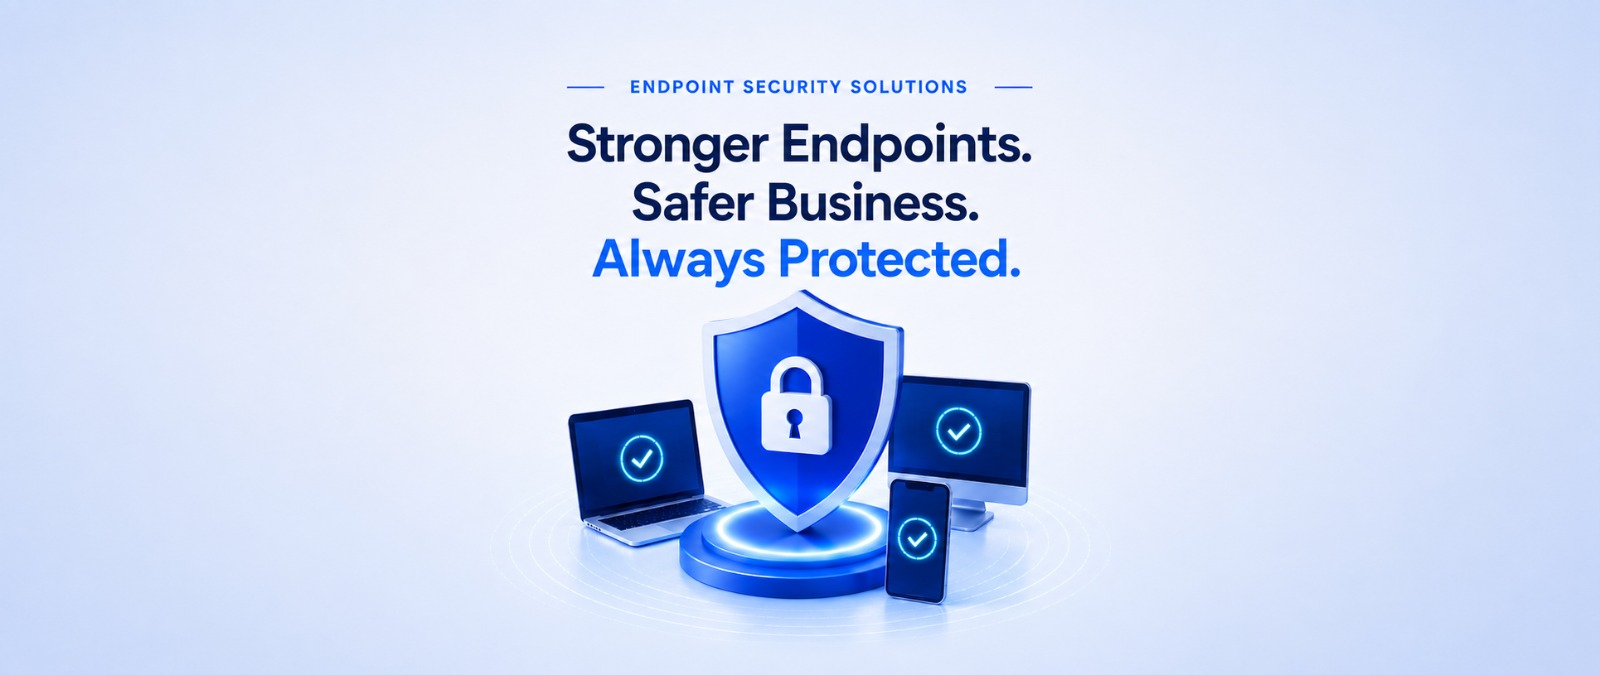
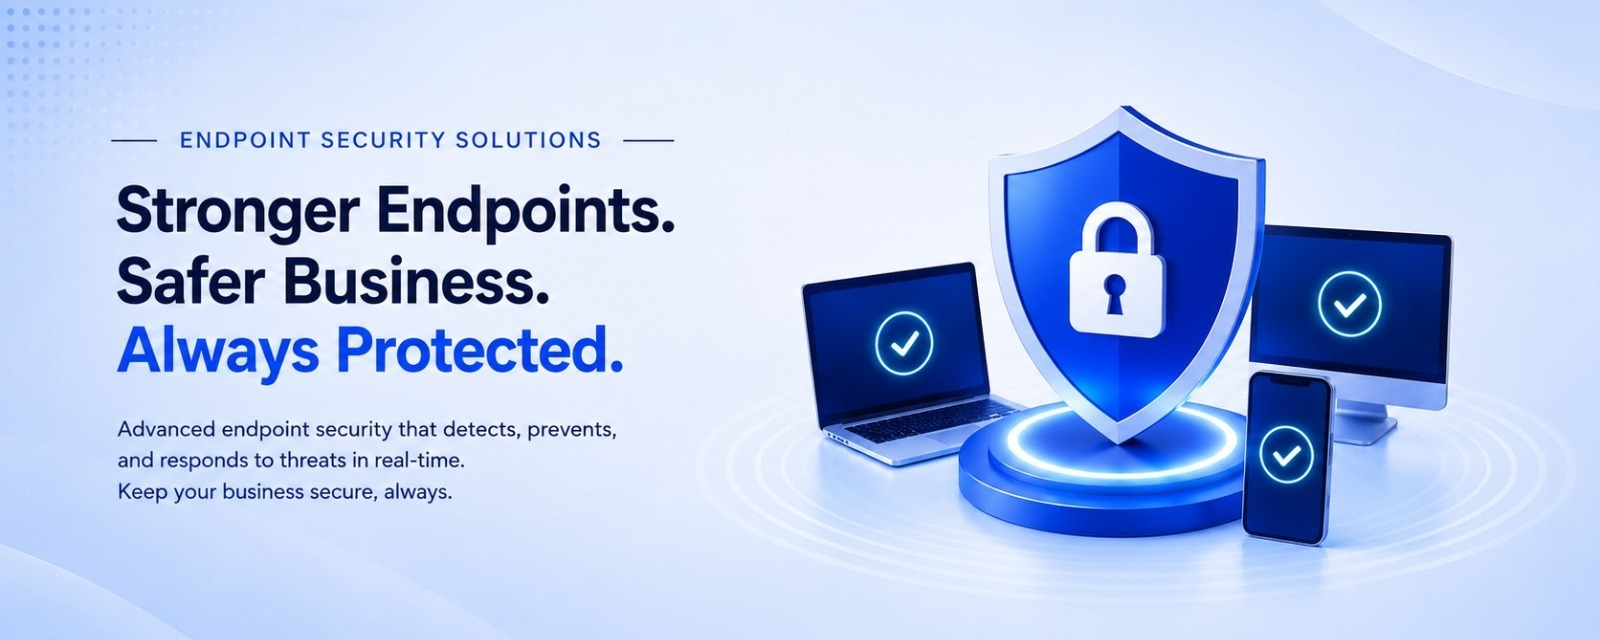
fix: images, layout, and styling

diff --git a/src/components/layout/Footer.jsx b/src/components/layout/Footer.jsx
@@ -13,15 +13,14 @@ export default function Footer() {
   return (
     <footer className="bg-[#380a08] text-white pt-20 pb-10">
       <div className="max-w-[1440px] mx-auto px-4 sm:px-6 lg:px-12">
-        <div className="flex flex-col lg:flex-row gap-12 lg:gap-16 mb-16 items-start">
+        <div className="grid grid-cols-1 md:grid-cols-2 lg:grid-cols-3 gap-8 mb-12">
           {/* Column 1: Google Map */}
-          <div className="w-full lg:w-[350px] flex flex-col">
-            <h4 className="font-bold text-lg mb-6">Our Location</h4>
-            <div className="w-full lg:w-[320px] rounded-xl border border-gray-300 h-[220px]">
+          <div className="flex flex-col">
+            <h4 className="font-bold text-lg mb-4">Our Location</h4>
+            <div className="w-full rounded-xl border border-gray-300 overflow-hidden h-[220px] md:h-[260px]">
               <iframe
                 src="https://www.google.com/maps/embed?pb=!1m18!1m12!1m3!1d3502.1304655175595!2d77.3762794742933!3d28.62585168438619!2m3!1f0!2f0!3f0!3m2!1i1024!2i768!4f13.1!3m3!1m2!1s0x390cefe52eb05379%3A0x8e9c143bfb81a1a9!2sCopious%20Infotech!5e0!3m2!1sen!2sin!4v1780427978835!5m2!1sen!2sin"
-                width="100%"
-                height="100%"
+                className="w-full h-full"
                 allowFullScreen=""
                 loading="lazy"
                 referrerPolicy="no-referrer-when-downgrade"
@@ -30,110 +29,66 @@ export default function Footer() {
             </div>
           </div>
 
-          {/* Column 2: Logo & Info */}
-          <div className="w-full lg:w-[380px] flex flex-col items-start">
-            {/* Logo */}
-            <div className="bg-white p-2 rounded mb-6 inline-flex">
-              <img src={logoImg} alt="Copious Logo" className="h-8" />
-            </div>
-
-            <p className="text-gray-200 text-lg leading-relaxed mb-8 max-w-sm">
-              Copious Infotech
-            </p>
-
-            <h4 className="font-bold text-lg mb-4">Stay In Touch</h4>
-            <div className="flex items-center gap-4">
-              <Link
-                to="https://www.instagram.com/copious_infotech?igsh=dWs1M2ozYTRzcml5"
-                target="_blank"
-                className="w-8 h-8 rounded-full bg-white text-[#0e1626] flex items-center justify-center hover:bg-[#E42A23] hover:text-white transition-colors"
-              >
-                <FaInstagram size={14} />
-              </Link>
-            </div>
-          </div>
-
-          {/* Column 3: Quick Links */}
-          <div className="w-full lg:w-[160px] flex flex-col">
-            <h4 className="font-bold text-lg mb-6">Quick Links</h4>
-            <ul className="space-y-4 text-sm text-gray-300">
+          {/* Column 2: Quick Links */}
+          <div className="flex flex-col lg:ml-20">
+            <h4 className="font-bold text-lg mb-4">Quick Links</h4>
+            <ul className="space-y-3 text-sm text-gray-300">
               <li>
-                <Link
-                  to="/"
-                  className="hover:text-white transition-colors cursor-pointer"
-                >
+                <Link to="/" className="hover:text-white transition-colors">
                   Home
                 </Link>
               </li>
               <li>
-                <Link
-                  to="/about"
-                  className="hover:text-white transition-colors cursor-pointer"
-                >
-                  My Story
-                </Link>
-              </li>
-              <li>
-                <Link
-                  to="/blog"
-                  className="hover:text-white transition-colors cursor-pointer"
-                >
-                  Blogs
-                </Link>
-              </li>
-              <li>
-                <Link
-                  to="/contact"
-                  className="hover:text-white transition-colors cursor-pointer"
-                >
+                <Link to="/contact" className="hover:text-white transition-colors">
                   Contact Us
                 </Link>
               </li>
               <li>
-                <Link
-                  to="/privacy-policy"
-                  className="hover:text-white transition-colors cursor-pointer"
-                >
+                <Link to="/privacy-policy" className="hover:text-white transition-colors">
                   Privacy Policy
                 </Link>
               </li>
             </ul>
           </div>
 
-          {/* Column 4: Reach Me */}
-          <div className="w-full lg:w-[260px] flex flex-col">
-            <h4 className="font-bold text-lg mb-6">Reach Me</h4>
+          {/* Column 3: Reach Me */}
+          <div className="flex flex-col">
+            <h4 className="font-bold text-lg mb-4">Reach Us</h4>
             <ul className="space-y-4 text-sm text-gray-200">
-              <li className="flex items-start gap-3">
-                <div className="mt-1 w-5 h-5 rounded-full bg-white flex items-center justify-center text-[#0e1626] shrink-0">
-                  <FaPhoneAlt size={10} />
+              <li className="flex items-center gap-3">
+                <div className="mt-1 w-7 h-7 rounded-full bg-white flex items-center justify-center text-[#0e1626] shrink-0">
+                  <FaPhoneAlt size={12} />
                 </div>
-                <span>8882320033</span>
+                <a href="tel:8882320033" className="hover:underline">8882320033</a>
               </li>
-              <li className="flex items-start gap-3">
-                <div className="mt-1 w-5 h-5 rounded-full bg-white flex items-center justify-center text-[#0e1626] shrink-0">
-                  <FaEnvelope size={10} />
+              <li className="flex items-center gap-3">
+                <div className="mt-1 w-7 h-7 rounded-full bg-white flex items-center justify-center text-[#0e1626] shrink-0">
+                  <FaEnvelope size={12} />
                 </div>
-                <span>connect@copiousinfo.com</span>
+                <a href="mailto:connect@copiousinfo.com" className="hover:underline">connect@copiousinfo.com</a>
               </li>
-              <li className="flex items-start gap-3">
-                <div className="mt-1 w-5 h-5 rounded-full bg-white flex items-center justify-center text-[#0e1626] shrink-0">
-                  <FaMapMarkerAlt size={10} />
+              <li className="flex items-center gap-3">
+                <div className="mt-1 w-7 h-7 rounded-full bg-white flex items-center justify-center text-[#0e1626] shrink-0">
+                  <FaMapMarkerAlt size={12} />
                 </div>
-                <span>
-                  H-141, Sector 63 Rd, Electronic City, H Block, Sector 63,
-                  Noida, Uttar Pradesh 201309
-                </span>
+                <address className="not-italic">H-141, Sector 63 Rd, Electronic City, H Block, Sector 63, Noida, Uttar Pradesh 201309</address>
+              </li>
+              <li className="flex items-center gap-3 cursor-pointer">
+                <div className="mt-1 w-7 h-7 rounded-full bg-white flex items-center justify-center text-[#0e1626] shrink-0">
+                  <FaInstagram size={12} />
+                </div>
+                <Link tp="https://www.instagram.com/copious_infotech" target="_blank"  className="hover:underline">Instagram</Link>
               </li>
             </ul>
           </div>
+
+          
+          
         </div>
 
         {/* Bottom Copyright */}
-        <div className="border-t border-gray-800 pt-6 flex flex-col md:flex-row items-center justify-between">
-          <p className="text-gray-300 text-sm">
-            © 2026 All Rights Reserved By Copious Infotech
-          </p>
+        <div className="border-t border-gray-400 pt-6 flex  items-center justify-center">
+          <p className="text-gray-300 text-center md:text-left">© 2026 All Rights Reserved By Copious Infotech</p>
         </div>
       </div>
     </footer>

diff --git a/src/pages/Contact.jsx b/src/pages/Contact.jsx
@@ -28,6 +28,9 @@ export default function Contact() {
   const [loading, setLoading] = useState(false);
   const [toast, setToast] = useState(null); // { type: 'success' | 'error', text: string }
 
+  const nameRegex = /^[A-Za-z\s]+$/;
+  const phoneRegex = /^\d{12}$/;
+
   // ── Helpers ───────────────────────────────────────────────────
   const showToast = (type, text) => {
     setToast({ type, text });
@@ -47,17 +50,39 @@ export default function Contact() {
   // ── Validation ────────────────────────────────────────────────
   const validate = () => {
     const newErrors = {};
-    if (!formData.firstName.trim())
+
+    const firstName = formData.firstName.trim();
+    const lastName = formData.lastName.trim();
+    const phone = formData.phone.trim();
+
+    if (!firstName) {
       newErrors.firstName = "First name is required.";
-    if (!formData.lastName.trim())
+    } else if (!nameRegex.test(firstName)) {
+      newErrors.firstName = "First name may only contain letters and spaces.";
+    }
+
+    if (!lastName) {
       newErrors.lastName = "Last name is required.";
+    } else if (!nameRegex.test(lastName)) {
+      newErrors.lastName = "Last name may only contain letters and spaces.";
+    }
+
     if (!formData.email.trim()) {
       newErrors.email = "Email is required.";
     } else if (!/^[^\s@]+@[^\s@]+\.[^\s@]+$/.test(formData.email)) {
       newErrors.email = "Please enter a valid email.";
     }
-    if (!formData.phone.trim()) newErrors.phone = "Phone number is required.";
-    if (!formData.message.trim()) newErrors.message = "Message is required.";
+
+    if (!phone) {
+      newErrors.phone = "Phone number is required.";
+    } else if (!phoneRegex.test(phone)) {
+      newErrors.phone = "Phone number must be exactly 12 digits.";
+    }
+
+    if (!formData.message.trim()) {
+      newErrors.message = "Message is required.";
+    }
+
     return newErrors;
   };
 
@@ -139,9 +164,24 @@ export default function Contact() {
       } else if (error.code === "ERR_NETWORK") {
         userMsg = "Network error. Please check your internet connection.";
       } else {
-        const serverMsg = error?.response?.data?.message;
-        if (serverMsg && serverMsg !== "validation Error!!")
+        const serverData = error?.response?.data;
+        const serverMsg =
+          typeof serverData === "string"
+            ? serverData
+            : typeof serverData?.message === "string"
+            ? serverData.message
+            : null;
+
+        if (serverMsg && serverMsg !== "validation Error!!") {
           userMsg = serverMsg;
+        } else if (serverData?.errors && typeof serverData.errors === "object") {
+          const fieldMessages = Object.values(serverData.errors)
+            .flat()
+            .filter(Boolean);
+          if (fieldMessages.length) {
+            userMsg = fieldMessages[0];
+          }
+        }
       }
 
       showToast("error", userMsg);
@@ -262,6 +302,7 @@ export default function Contact() {
                   value={formData.phone}
                   onChange={handleChange}
                   placeholder="phone number"
+                  maxLength={12}
                   className="w-full h-11 px-3 text-sm border border-[#d1d5db] rounded-md bg-transparent focus:outline-none focus:ring-2 focus:ring-[#da251d]/20 focus:border-[#da251d]"
                 />
                 {errors.phone && (

diff --git a/src/components/ui/ContentCard.jsx b/src/components/ui/ContentCard.jsx
@@ -17,31 +17,31 @@ export default function ContentCard({
   return (
     <article
       className={cn(
-        'site-card group bg-white rounded-[10px] overflow-hidden border border-gray-100',
+        'site-card group bg-white rounded-[10px] overflow-hidden border border-gray-200',
         'flex flex-col h-full cursor-pointer',
         className,
       )}
     >
-      <div className="h-[168px] w-full shrink-0 overflow-hidden">
+      <div className="h-[220px] w-full shrink-0 overflow-hidden">
         <img
           src={image}
           alt={imageAlt || title}
-          className="w-full h-full object-cover transition-transform duration-300 ease-out group-hover:scale-105"
+          className="w-full h-full object-fit md:object-cover transition-transform duration-300 ease-out group-hover:scale-105"
         />
       </div>
 
       <div className="p-5 flex flex-col items-start flex-grow">
-        <h3 className="text-[#da251d] font-bold text-base mb-2 leading-snug h-[44px] line-clamp-2 transition-colors duration-300 group-hover:text-[#c02019]">
+        <h3 className="text-[#da251d] font-bold text-lg mb-2 leading-snug transition-colors duration-300 group-hover:text-[#c02019]">
           {title}
         </h3>
 
-        <p className="text-[#4b5563] text-[13px] font-medium leading-[1.55] mb-4 h-[60px] line-clamp-3">
+        <p className="text-[#4b5563] text-[15px] font-medium leading-[1.55] my-3.5 ">
           {description}
         </p>
 
         <Link
           to={to}
-          className="bg-[#da251d] text-white px-5 py-1.5 rounded-md text-[13px] font-semibold hover:bg-[#c02019] transition-colors mt-auto group-hover:shadow-sm"
+          className="bg-[#da251d] text-white px-5 py-1.5 rounded-md text-[13px] font-semibold hover:bg-[#c02019] transition-colors mt-4 group-hover:shadow-sm"
         >
           {ctaLabel}
         </Link>

diff --git a/src/pages/services/security/SecurityDetail.jsx b/src/pages/services/security/SecurityDetail.jsx
@@ -15,7 +15,7 @@ export default function SecurityDetail() {
       <section className="relative w-full">
         <img
           src={heroBg}
-          className=" w-full md:h-[500px] object-contain"
+          className=" w-full md:h-[500px] object-cover"
           alt="endpoint-security-hero-image"
         />
         <div className="absolute inset-0 bg-red-400/20" />
@@ -39,13 +39,11 @@ export default function SecurityDetail() {
                 <p className="text-[#4b5563] text-[14px] sm:text-[15px] leading-[1.8]">
                   By deploying security software directly on these devices,
                   organizations can monitor for, detect, and block malicious
-                  activity, such as viruses, ransomware, and unauthorized access
-                  attempts, at the point of entry before they can propagate
-                  through the wider IT infrastructure.
+                  activit.
                 </p>
                 <p className="text-[#4b5563] text-[14px] sm:text-[15px] leading-[1.8]">
                   Modern endpoint security solutions have evolved beyond
-                  traditional antivirus, incorporating advanced features like
+                  traditional antivirus, incorporating advanced features li////////////ke
                   AI-driven threat intelligence, real-time behavioral analysis,
                   and cloud-based centralized management.
                 </p>

diff --git a/src/pages/services/cloud/AWSCloudDetail.jsx b/src/pages/services/cloud/AWSCloudDetail.jsx
@@ -151,7 +151,7 @@ export default function AWSCloudDetail() {
               <img
                 src={aws2Img}
                 alt="Cloud Categories"
-                className="w-full h-[280px] sm:h-[340px] lg:h-[380px] object-contain md:object-cover bg-[#f8f9fa] rounded-xl shadow-sm"
+                className="w-full h-[280px] sm:h-[340px] lg:h-[370px] object-contain md:object-cover bg-[#f8f9fa] rounded-xl shadow-sm"
               />
             </div>
             {/* Right: Category List */}

diff --git a/src/pages/services/BackupDetail.jsx b/src/pages/services/BackupDetail.jsx
@@ -11,7 +11,7 @@ export default function BackupDetail() {
       <section className="relative w-full">
         <img
         src={aboutHero}
-        className="w-full md:h-[500px] object-fit"
+        className="w-full md:h-[600px] object-fit"
         alt='backup service hero-section image'
       />
         <div className="absolute inset-0 bg-red-400/20" />

diff --git a/src/pages/services/BulkWebWhatsApp.jsx b/src/pages/services/BulkWebWhatsApp.jsx
@@ -56,7 +56,7 @@ export default function BulkWebWhatsApp() {
         <img
           src={aboutHero}
           alt="bulk whatsapp header image"
-          className=" w-full md:h-[550px] object-cover"
+          className=" w-full md:h-[600px] object-cover"
         />
         <div className="absolute inset-0 bg-red-400/20" />
       </section>

diff --git a/src/components/sections/home/Hero.jsx b/src/components/sections/home/Hero.jsx
@@ -8,7 +8,7 @@ export default function Hero() {
       {/* Background Image with Overlay */}
       <img
         src={heroBg}
-        className="w-full h-[500px] object-cover"
+        className="w-full md:h-[500px] object-cover"
         alt="home-hero-image"
       />
       <div className="absolute inset-0 bg-red-400/20"></div>
